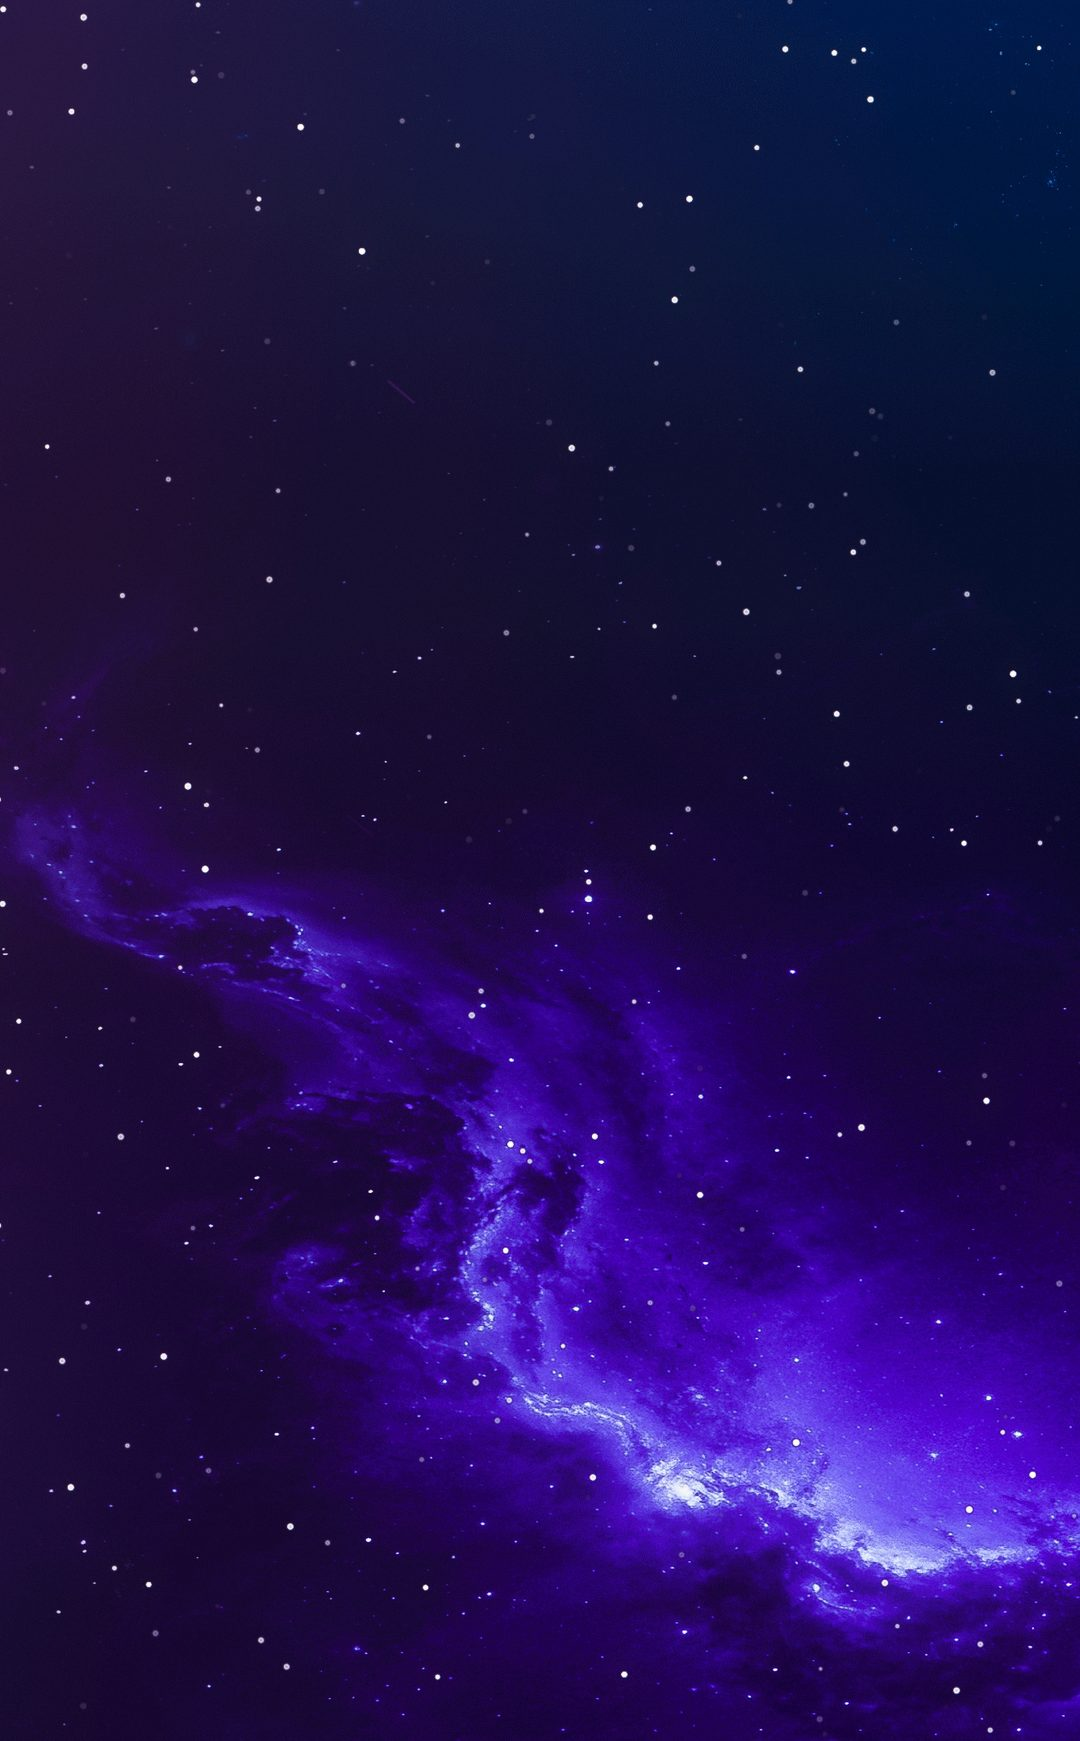
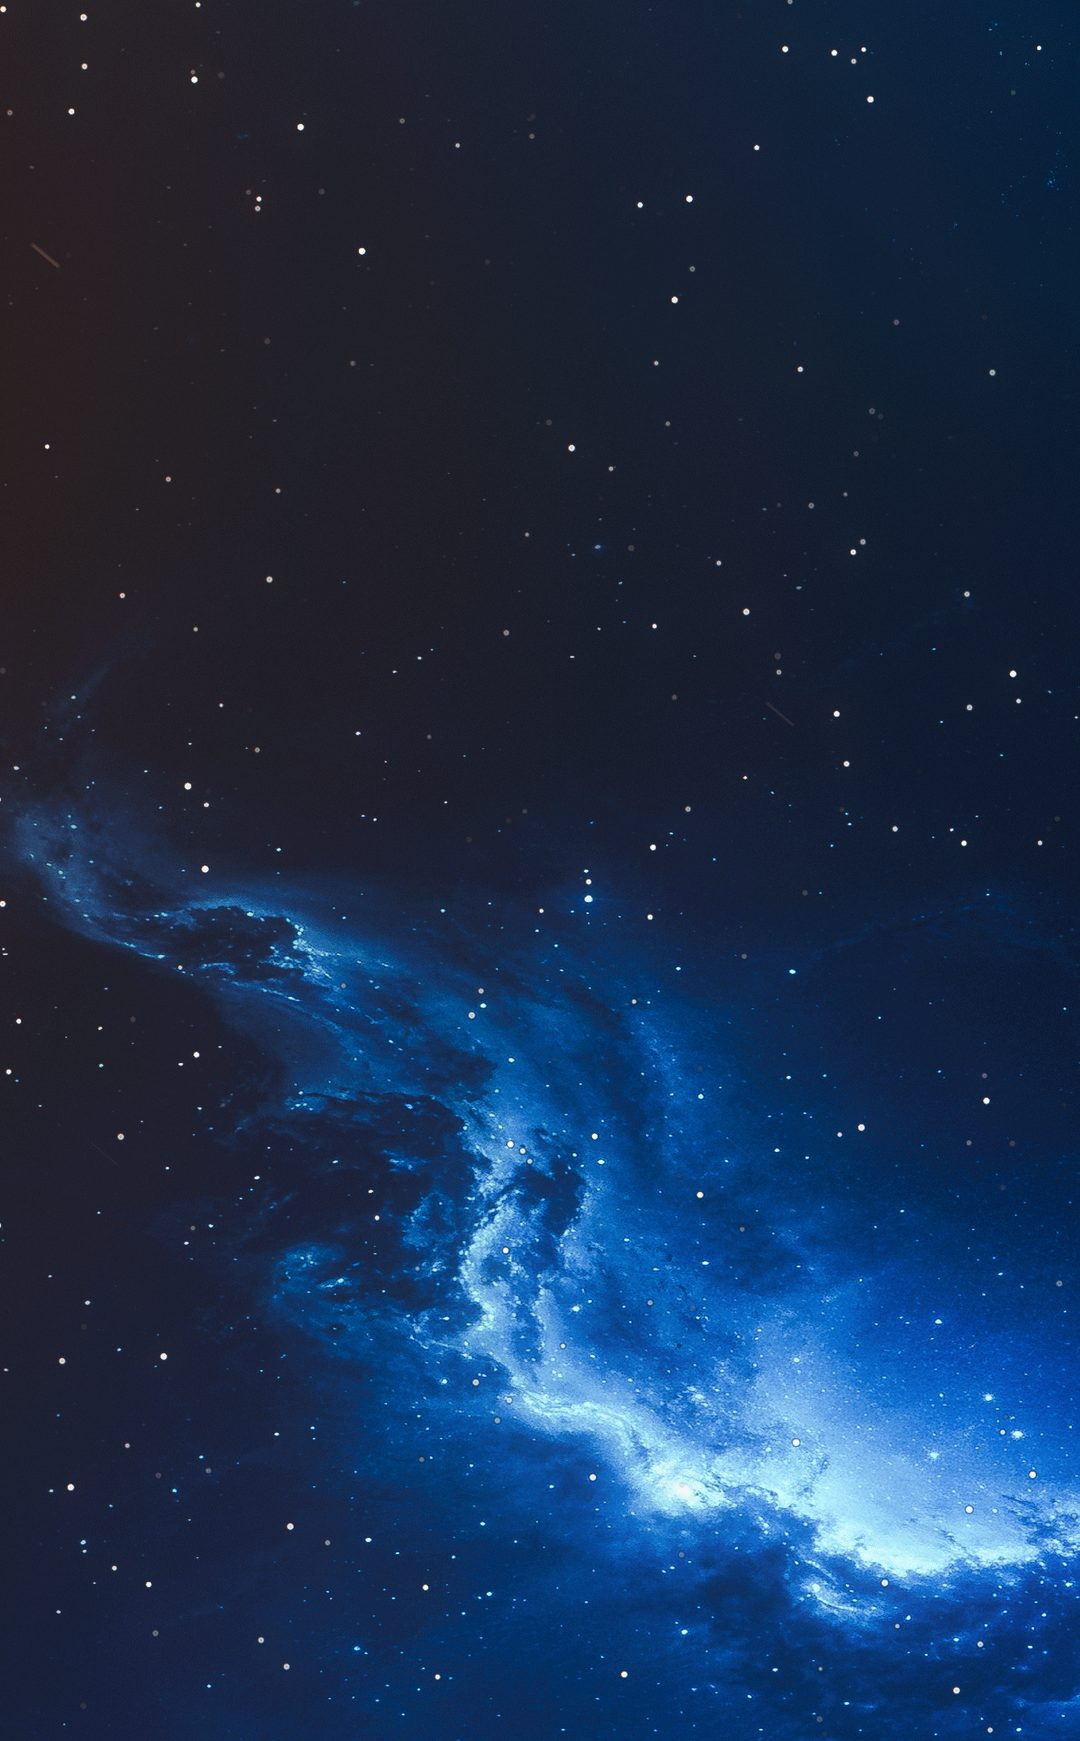
biomes 2.0

diff --git a/assets/css/biomes.css b/assets/css/biomes.css
@@ -49,13 +49,13 @@
 }
 
 /* телефон и планшет */
-.biome--1.is-src { background-image: url('../images/biomes/biome-1-m.jpg'); }
-.biome--2.is-src { background-image: url('../images/biomes/biome-2-m.jpg'); }
-.biome--3.is-src { background-image: url('../images/biomes/biome-3-m.jpg'); }
-.biome--4.is-src { background-image: url('../images/biomes/biome-4-m.jpg'); }
-.biome--5.is-src { background-image: url('../images/biomes/biome-5-m.jpg'); }
-.biome--6.is-src { background-image: url('../images/biomes/biome-6-m.jpg'); }
-.biome--7.is-src { background-image: url('../images/biomes/biome-7-m.jpg'); }
+.biome--1.is-src { background-image: url('../images/biomes/biome-1-m.jpg?v=2'); }
+.biome--2.is-src { background-image: url('../images/biomes/biome-2-m.jpg?v=2'); }
+.biome--3.is-src { background-image: url('../images/biomes/biome-3-m.jpg?v=2'); }
+.biome--4.is-src { background-image: url('../images/biomes/biome-4-m.jpg?v=2'); }
+.biome--5.is-src { background-image: url('../images/biomes/biome-5-m.jpg?v=2'); }
+.biome--6.is-src { background-image: url('../images/biomes/biome-6-m.jpg?v=2'); }
+.biome--7.is-src { background-image: url('../images/biomes/biome-7-m.jpg?v=2'); }
 
 /* на телефоне текст крупнее относительно кадра, а светлые туманности ярче — слегка притемняем для читаемости */
 @media (max-width: 1279.98px) {
@@ -63,7 +63,7 @@
         content: '';
         position: absolute;
         inset: 0;
-        background: rgba(4, 4, 10, .32);
+        background: rgba(4, 4, 10, .14);
     }
 }
 
@@ -73,13 +73,13 @@
         --bf: calc(320*var(--du));
     }
 
-    .biome--1.is-src { background-image: url('../images/biomes/biome-1.jpg'); }
-    .biome--2.is-src { background-image: url('../images/biomes/biome-2.jpg'); }
-    .biome--3.is-src { background-image: url('../images/biomes/biome-3.jpg'); }
-    .biome--4.is-src { background-image: url('../images/biomes/biome-4.jpg'); }
-    .biome--5.is-src { background-image: url('../images/biomes/biome-5.jpg'); }
-    .biome--6.is-src { background-image: url('../images/biomes/biome-6.jpg'); }
-    .biome--7.is-src { background-image: url('../images/biomes/biome-7.jpg'); }
+    .biome--1.is-src { background-image: url('../images/biomes/biome-1.jpg?v=2'); }
+    .biome--2.is-src { background-image: url('../images/biomes/biome-2.jpg?v=2'); }
+    .biome--3.is-src { background-image: url('../images/biomes/biome-3.jpg?v=2'); }
+    .biome--4.is-src { background-image: url('../images/biomes/biome-4.jpg?v=2'); }
+    .biome--5.is-src { background-image: url('../images/biomes/biome-5.jpg?v=2'); }
+    .biome--6.is-src { background-image: url('../images/biomes/biome-6.jpg?v=2'); }
+    .biome--7.is-src { background-image: url('../images/biomes/biome-7.jpg?v=2'); }
 }
 
 @media (prefers-reduced-motion: reduce) {

diff --git a/index.html b/index.html
@@ -113,7 +113,7 @@
     <link rel="stylesheet" href="./assets/css/main.css?v=10">
     <link rel="stylesheet" href="./assets/css/articles.css?v=4">
     <link rel="stylesheet" href="./assets/css/select.css?v=6">
-    <link rel="stylesheet" href="./assets/css/biomes.css?v=3">
+    <link rel="stylesheet" href="./assets/css/biomes.css?v=4">
 
     <script type="application/ld+json">
     {
@@ -419,14 +419,14 @@
                 <i class="biome biome--7" data-biome="7"></i>
             </div>
             <section class="directions" id="directions" aria-labelledby="directions-title">
-                <!-- <picture>
+                <picture>
                     <img loading="lazy" class="comet comet--left" src="./assets/images/comet-left.png" width="505" height="541" alt=""
                         aria-hidden="true" decoding="async">
                 </picture>
                 <picture>
                     <img loading="lazy" class="comet comet--right" src="./assets/images/comet-right.png" width="765" height="915"
                         alt="" aria-hidden="true" decoding="async">
-                </picture> -->
+                </picture>
 
                 <span class="directions__glow" aria-hidden="true"></span>
 
@@ -1016,7 +1016,7 @@
         </style>
     </noscript>
 
-    <script type="module" src="./assets/js/main.js?v=13"></script>
+    <script type="module" src="./assets/js/main.js?v=14"></script>
 </body>
 
 </html>

diff --git a/assets/js/main.js b/assets/js/main.js
@@ -8,7 +8,7 @@ import { initCarousel } from './modules/carousel.js?v=5';
 import { initCrewSlider } from './modules/crew-slider.js?v=5';
 import { initModals } from './modules/modals.js?v=5';
 import { initArticles } from './modules/articles.js?v=4';
-import { initBiomes } from './modules/biomes.js?v=2';
+import { initBiomes } from './modules/biomes.js?v=3';
 import { initSelect } from './modules/select.js?v=4';
 import { initGlassClose } from './modules/glass-close.js?v=5';
 import { initNavGlass } from './modules/nav-glass.js?v=5';
@@ -16,7 +16,7 @@ import { initPressSpring } from './modules/press-spring.js?v=6';
 import { initStarLight } from './modules/star-light.js?v=7';
 import { initSmoothScroll } from './modules/smooth-scroll.js?v=5';
 
-console.info('[kometa] build 13');
+console.info('[kometa] build 14');
 const reduceMotion = window.matchMedia('(prefers-reduced-motion: reduce)').matches;
 const isPhone = window.matchMedia('(max-width: 1279.98px)').matches;
 const root = document.documentElement;

diff --git a/assets/js/modules/biomes.js b/assets/js/modules/biomes.js
@@ -8,7 +8,7 @@ export function initBiomes() {
     if (conn && (conn.saveData || /(^|-)2g$/.test(conn.effectiveType || ''))) return;
 
     const wide = () => window.matchMedia('(min-width: 1280px)').matches;
-    const url = (n) => `./assets/images/biomes/biome-${n}${wide() ? '' : '-m'}.jpg`;
+    const url = (n) => `./assets/images/biomes/biome-${n}${wide() ? '' : '-m'}.jpg?v=2`;
     const cache = new Map();   // ключ: номер + вариант (широкий/вертикальный)
 
     const load = (el) => {
